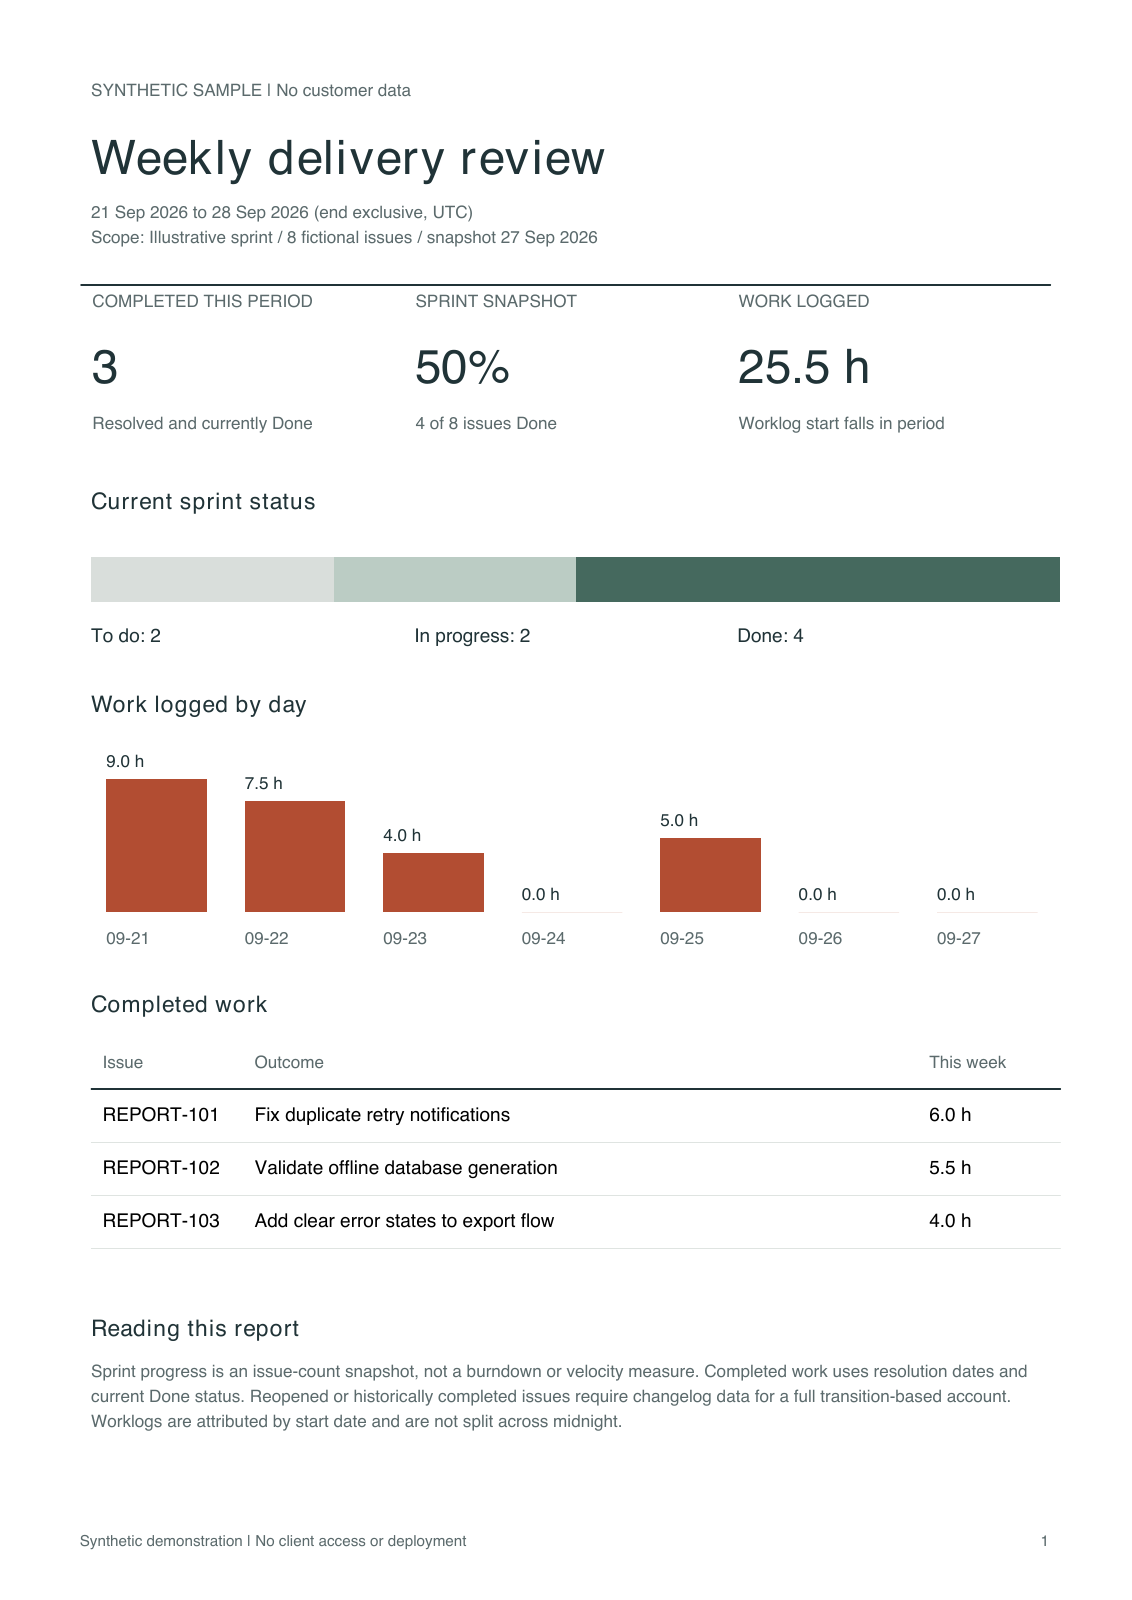
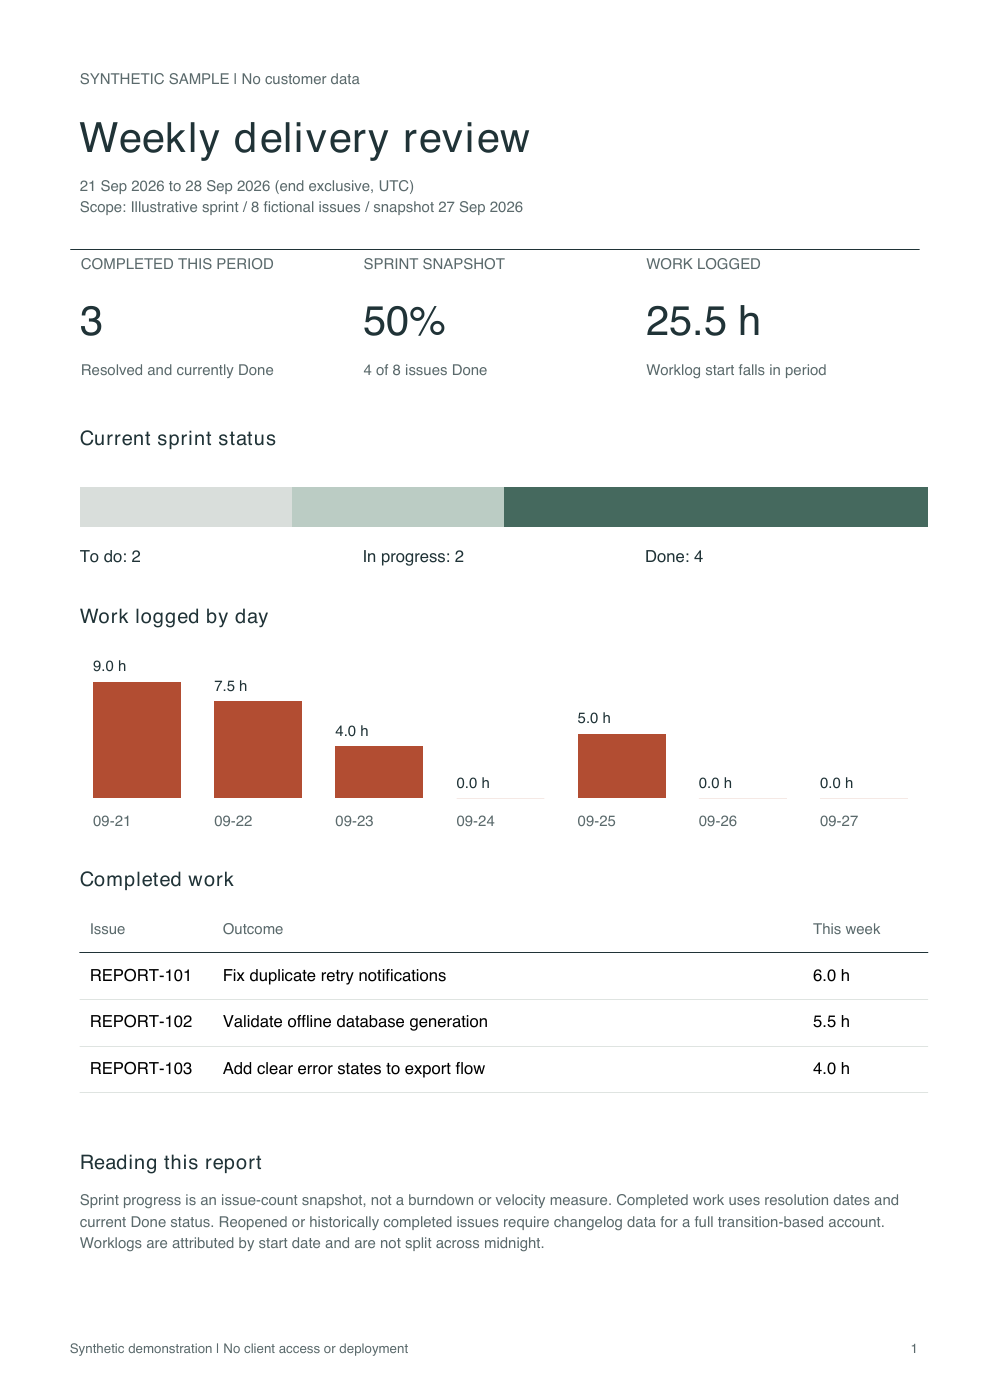
Reconcile all task hours in weekly PDF reports

diff --git a/report.py b/report.py
@@ -19,9 +19,10 @@ def summarize(payload, start, end):
     if start >= end:
         raise ValueError("The reporting interval must have positive length")
     issues = payload["issues"]
-    if payload.get("total", len(issues)) != len(issues):
+    if type(payload.get("total")) is not int or payload["total"] != len(issues):
         raise ValueError("Incomplete issue export: retrieve all pages first")
     seen, completed, statuses, hours, issue_hours = set(), [], Counter(), Counter(), {}
+    logged_tasks = []
     for issue in issues:
         key, fields = issue["key"], issue["fields"]
         if key in seen:
@@ -41,8 +42,10 @@ def summarize(payload, start, end):
                 }
             )
         worklogs = fields.get("worklog")
-        if worklogs is None or worklogs.get("total") != len(
-            worklogs.get("worklogs", [])
+        if (
+            worklogs is None
+            or type(worklogs.get("total")) is not int
+            or worklogs["total"] != len(worklogs.get("worklogs", []))
         ):
             raise ValueError(f"Incomplete worklogs for {key}: retrieve all pages first")
         ids, seconds = set(), 0
@@ -62,6 +65,15 @@ def summarize(payload, start, end):
                 # This is logged work, not inferred from assignment or lifetime totals.
                 hours[timestamp(log["started"]).strftime("%Y-%m-%d")] += duration / 3600
         issue_hours[key] = seconds / 3600
+        if seconds:
+            logged_tasks.append(
+                {
+                    "key": key,
+                    "summary": fields["summary"],
+                    "status": status,
+                    "hours": seconds / 3600,
+                }
+            )
     day = start.replace(hour=0, minute=0, second=0, microsecond=0)
     while day < end:
         hours.setdefault(day.strftime("%Y-%m-%d"), 0.0)
@@ -73,6 +85,7 @@ def summarize(payload, start, end):
         "completed": sorted(completed, key=lambda x: x["key"]),
         "hours": dict(sorted(hours.items())),
         "issue_hours": issue_hours,
+        "logged_tasks": sorted(logged_tasks, key=lambda row: row["key"]),
         "total_hours": sum(issue_hours.values()),
     }
 
@@ -86,6 +99,7 @@ def write_pdf(payload, metrics, start, end, destination):
         Spacer,
         Table,
         TableStyle,
+        PageBreak,
     )
     from reportlab.graphics.shapes import Drawing, Rect, String
 
@@ -291,6 +305,50 @@ def write_pdf(payload, metrics, start, end, destination):
             "SmallCustom",
         ),
     ]
+
+    story += [
+        PageBreak(),
+        p("Time spent on tasks", "TitleCustom"),
+        p(f"{start:%d %b %Y} to {end:%d %b %Y} (end exclusive, UTC)", "SmallCustom"),
+        p(
+            "Every task with work logged in this period, including unfinished work. "
+            "Status is the current export snapshot. Hours are rounded to one decimal.",
+            "SmallCustom",
+        ),
+        Spacer(1, 18),
+    ]
+    status_labels = {"new": "To do", "indeterminate": "In progress", "done": "Done"}
+    logged_rows = [
+        [p(label, "SmallCustom") for label in ("Issue", "Task", "Status", "Hours")]
+    ]
+    for task in metrics["logged_tasks"]:
+        logged_rows.append(
+            [
+                p(task["key"]),
+                p(task["summary"]),
+                p(status_labels[task["status"]]),
+                p(f"{task['hours']:.1f}"),
+            ]
+        )
+    if not metrics["logged_tasks"]:
+        logged_rows.append([p("-"), p("No worklogs in this period."), p("-"), p("0.0")])
+    logged_rows.append([p("Total"), p(""), p(""), p(f"{metrics['total_hours']:.1f}")])
+    logged_table = Table(
+        logged_rows, colWidths=[95, 265, 95, 55], repeatRows=1, hAlign="LEFT"
+    )
+    logged_table.setStyle(
+        TableStyle(
+            [
+                ("VALIGN", (0, 0), (-1, -1), "TOP"),
+                ("LINEBELOW", (0, 0), (-1, 0), 0.7, colors.HexColor(ink)),
+                ("LINEBELOW", (0, 1), (-1, -1), 0.3, colors.HexColor("#DFE4E1")),
+                ("LINEABOVE", (0, -1), (-1, -1), 0.7, colors.HexColor(ink)),
+                ("TOPPADDING", (0, 0), (-1, -1), 7),
+                ("BOTTOMPADDING", (0, 0), (-1, -1), 7),
+            ]
+        )
+    )
+    story.append(logged_table)
 
     def footer(canvas, doc):
         canvas.setFont("Helvetica", 8)

diff --git a/test_pdf.py b/test_pdf.py
@@ -1,0 +1,70 @@
+import copy
+import json
+import tempfile
+import unittest
+from pathlib import Path
+
+from pypdf import PdfReader
+
+from report import summarize, timestamp, write_pdf
+
+START = timestamp("2026-09-21T00:00:00Z")
+END = timestamp("2026-09-28T00:00:00Z")
+
+
+class PdfTests(unittest.TestCase):
+    def setUp(self):
+        self.payload = json.loads(Path(__file__).with_name("sample.json").read_text())
+
+    def render(self, payload):
+        metrics = summarize(payload, START, END)
+        with tempfile.TemporaryDirectory() as directory:
+            output = Path(directory) / "report.pdf"
+            write_pdf(payload, metrics, START, END, output)
+            pages = [page.extract_text() for page in PdfReader(output).pages]
+        return metrics, pages
+
+    def test_sample_includes_unfinished_work_and_reconciled_total(self):
+        metrics, pages = self.render(self.payload)
+        self.assertEqual(len(pages), 2)
+        self.assertIn("Time spent on tasks", pages[1])
+        self.assertIn("In progress", pages[1])
+        for task in metrics["logged_tasks"]:
+            self.assertIn(task["key"], pages[1])
+        self.assertIn("25.5", pages[1])
+        for page in pages:
+            self.assertIn("Synthetic demonstration", page)
+
+    def test_long_worklog_table_continues_with_headers_and_all_tasks(self):
+        template = self.payload["issues"][0]
+        self.payload["issues"] = []
+        for index in range(60):
+            issue = copy.deepcopy(template)
+            issue["key"] = f"LONG-{index:03}"
+            issue["fields"]["status"]["statusCategory"]["key"] = "indeterminate"
+            issue["fields"]["summary"] = (
+                "Handle retry errors & preserve <literal> input in the export " * 3
+            )
+            self.payload["issues"].append(issue)
+        self.payload["total"] = len(self.payload["issues"])
+        _, pages = self.render(self.payload)
+        self.assertGreater(len(pages), 3)
+        body = "\n".join(pages[1:])
+        for issue in self.payload["issues"]:
+            self.assertEqual(body.count(issue["key"]), 1)
+        for page in pages[1:]:
+            self.assertIn("Hours", page)
+            self.assertIn("Status", page)
+        self.assertIn("<literal>", body)
+        self.assertIn("360.0", body)
+
+    def test_empty_report_has_no_invented_work(self):
+        self.payload.update(issues=[], total=0)
+        metrics, pages = self.render(self.payload)
+        self.assertEqual(metrics["logged_tasks"], [])
+        self.assertIn("No worklogs in this period.", pages[-1])
+        self.assertIn("N/A", pages[0])
+
+
+if __name__ == "__main__":
+    unittest.main()

diff --git a/test_report.py b/test_report.py
@@ -17,6 +17,35 @@ class ReportTests(unittest.TestCase):
         self.assertEqual((m["total"], m["done"], len(m["completed"])), (8, 4, 3))
         self.assertEqual(m["total_hours"], 25.5)
 
+    def test_missing_total_is_not_a_complete_export(self):
+        del self.payload["total"]
+        with self.assertRaisesRegex(ValueError, "Incomplete issue"):
+            summarize(self.payload, START, END)
+
+    def test_boolean_and_noninteger_totals_are_rejected(self):
+        for invalid in (True, 8.0, "8", -1):
+            with self.subTest(total=invalid):
+                self.payload["total"] = invalid
+                with self.assertRaisesRegex(ValueError, "Incomplete issue"):
+                    summarize(self.payload, START, END)
+
+    def test_all_logged_tasks_reconcile_including_unfinished_work(self):
+        m = summarize(self.payload, START, END)
+        self.assertEqual(sum(row["hours"] for row in m["logged_tasks"]), 25.5)
+        completed = {item["key"] for item in m["completed"]}
+        self.assertTrue(any(row["key"] not in completed for row in m["logged_tasks"]))
+        self.assertTrue(all(row["hours"] > 0 for row in m["logged_tasks"]))
+        self.assertEqual(
+            len(m["logged_tasks"]), len({r["key"] for r in m["logged_tasks"]})
+        )
+
+    def test_one_worklog_cannot_have_boolean_total(self):
+        issue = self.payload["issues"][1]
+        self.assertEqual(len(issue["fields"]["worklog"]["worklogs"]), 1)
+        issue["fields"]["worklog"]["total"] = True
+        with self.assertRaisesRegex(ValueError, "Incomplete worklogs"):
+            summarize(self.payload, START, END)
+
     def test_start_included_end_excluded_and_timezone_normalized(self):
         issue = self.payload["issues"][0]
         issue["fields"]["worklog"] = {

diff --git a/README.md b/README.md
@@ -8,13 +8,19 @@ been connected to a client Jira instance, scheduled, or accepted by a client.
 
 ![Synthetic weekly report preview](examples/weekly-report.png)
 
+The second page itemizes every task with work logged during the week, including
+in-progress and to-do tasks. Its total reconciles with the overview; completed
+tasks remain a separate section. Long task lists continue with repeated headers.
+
+![Synthetic task-hours detail](examples/task-hours.png)
+
 ## Run
 
 Requires Python 3.11+.
 
 ```sh
 python3 -m venv .venv
-.venv/bin/pip install -r requirements.txt
+.venv/bin/pip install -r requirements-dev.txt
 .venv/bin/python -m unittest -v
 .venv/bin/python report.py sample.json \
   --start 2026-09-21T00:00:00Z --end 2026-09-28T00:00:00Z \
@@ -30,7 +36,7 @@ arrived. Deployment/scheduling needs the client's target environment and approva
 `sample.json` shows the shape. Use a complete export of the agreed sprint/scope,
 not just issues updated this week: that would bias the sprint denominator. Each
 issue needs key, summary, status category, resolution date and complete worklogs.
-The outer `total` and each worklog `total` must match the actual records. The
+The outer `total` and each worklog `total` must be explicit integers matching the actual records. The
 program rejects partial pages and duplicates instead of undercounting silently.
 The caller must also ensure permission-filtered exports represent the intended
 scope; counts cannot detect records hidden by Jira permissions.
@@ -57,4 +63,5 @@ fixtures. This demonstration did not access real customer data.
 
 The PDF uses built-in Latin fonts; CJK/other script font embedding would be a
 separate confirmed layout requirement. Public proposal claims are limited to the
-included implementation and six tests. Developed with AI assistance.
+included implementation and 13 tests, including actual PDF extraction for empty,
+normal and 60-task multi-page reports. Developed with AI assistance.
